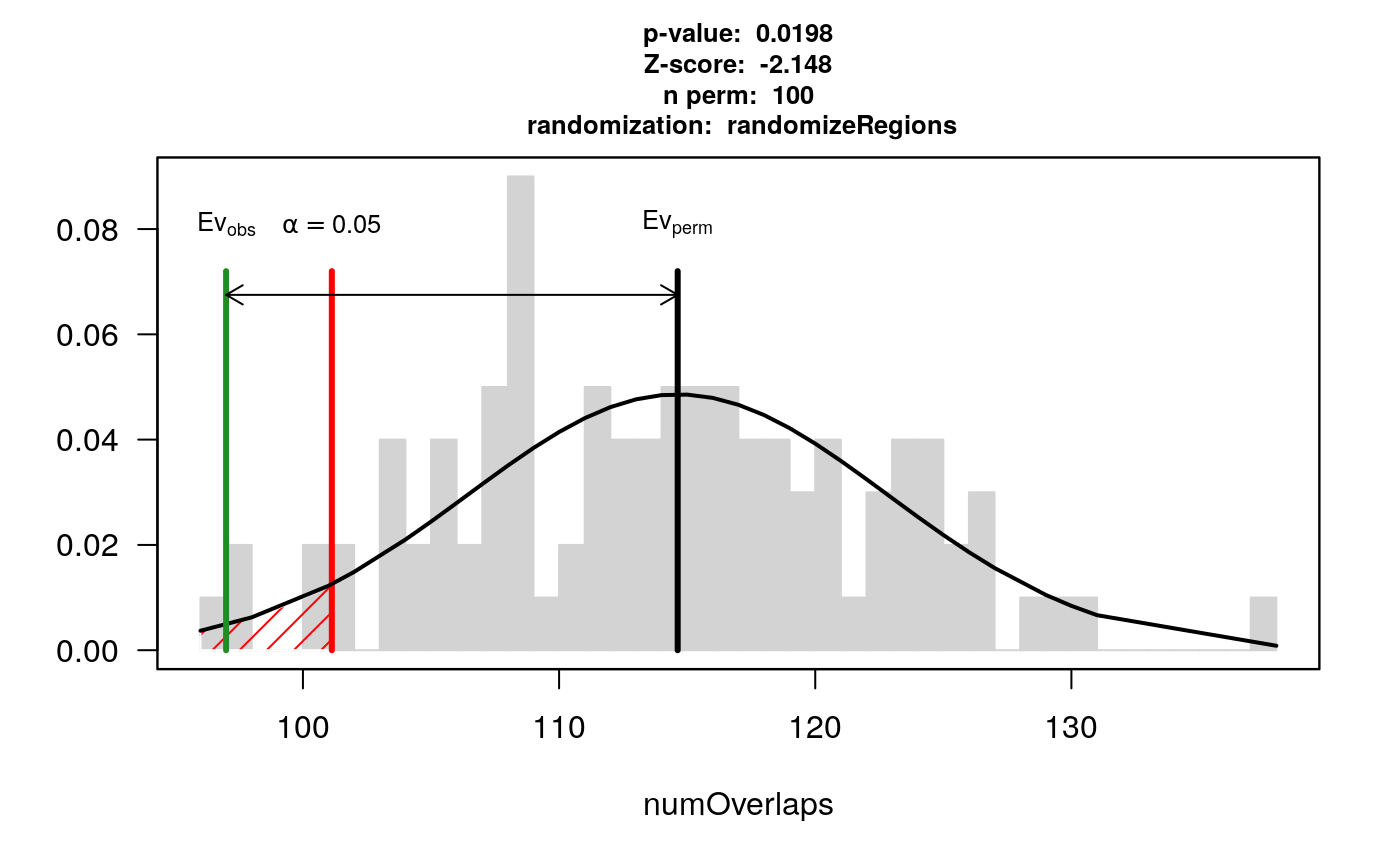
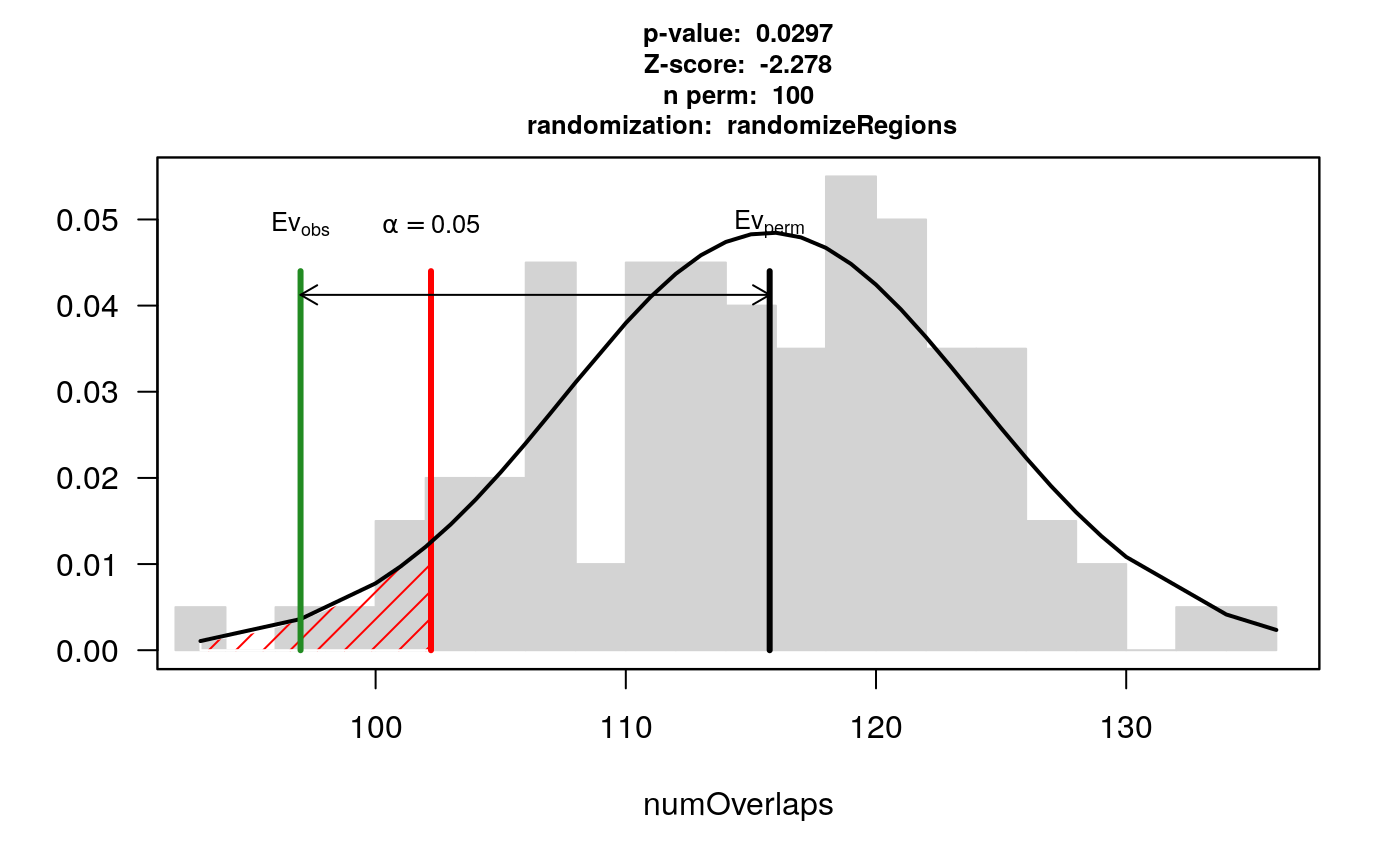
Deploying to gh-pages from  @ 88d11f97172ed49f22ce9ac9cc7c9f7c1b7ebd18 🚀

diff --git a/articles/Geistlinger_CNVWorkshop.html b/articles/Geistlinger_CNVWorkshop.html
@@ -546,17 +546,17 @@ RaggedExperiment object schematic. Rows and columns represent genomic ranges and
 <pre><code>## DataFrame with 711 rows and 2 columns
 ##             weight       fcr
 ##          &lt;numeric&gt; &lt;numeric&gt;
-## NE001357   1206.53      7.49
-## NE001358   1171.97      4.00
-## NE001359   1031.34      4.38
-## NE001360    986.34      5.84
-## NE001361    999.99      7.94
+## NE001357   1440.84      7.23
+## NE001358   1246.89      5.52
+## NE001359    972.60      6.68
+## NE001360   1278.32      7.70
+## NE001361   1150.43      5.14
 ## ...            ...       ...
-## NE003962   1098.47      3.95
-## NE003963   1285.13      6.97
-## NE003966   1045.78      6.63
-## NE003967   1232.71      7.77
-## NE003968   1007.17      4.65</code></pre>
+## NE003962   1158.21      3.85
+## NE003963   1250.36      7.84
+## NE003966   1190.27      7.06
+## NE003967    957.54      5.14
+## NE003968   1011.43      5.57</code></pre>
 </div>
 </div>
 <div id="summarizing-individual-cnv-calls-across-a-population" class="section level3">
@@ -643,12 +643,12 @@ RaggedExperiment object schematic. Rows and columns represent genomic ranges and
 <p>To obtain the location of protein-coding genes, we query available <em>Bos taurus</em> annotation from Ensembl</p>
 <div class="sourceCode" id="cb57"><html><body><pre class="r"><span class="fu"><a href="https://rdrr.io/r/base/library.html">library</a></span>(<span class="no">AnnotationHub</span>)
 <span class="no">ah</span> <span class="kw">&lt;-</span> <span class="kw pkg">AnnotationHub</span><span class="kw ns">::</span><span class="fu"><a href="https://rdrr.io/pkg/AnnotationHub/man/AnnotationHub-class.html">AnnotationHub</a></span>()</pre></body></html></div>
-<pre><code>## using temporary cache /tmp/RtmpkdfaVz/BiocFileCache</code></pre>
-<pre><code>## snapshotDate(): 2020-06-18</code></pre>
+<pre><code>## using temporary cache /tmp/Rtmpv6P0ra/BiocFileCache</code></pre>
+<pre><code>## snapshotDate(): 2020-07-20</code></pre>
 <div class="sourceCode" id="cb60"><html><body><pre class="r"><span class="no">ahDb</span> <span class="kw">&lt;-</span> <span class="kw pkg">AnnotationHub</span><span class="kw ns">::</span><span class="fu"><a href="https://rdrr.io/pkg/AnnotationHub/man/AnnotationHub-class.html">query</a></span>(<span class="no">ah</span>, <span class="kw">pattern</span> <span class="kw">=</span> <span class="fu"><a href="https://rdrr.io/r/base/c.html">c</a></span>(<span class="st">"Bos taurus"</span>, <span class="st">"EnsDb"</span>))
 <span class="no">ahDb</span></pre></body></html></div>
 <pre><code>## AnnotationHub with 14 records
-## # snapshotDate(): 2020-06-18
+## # snapshotDate(): 2020-07-20
 ## # $dataprovider: Ensembl
 ## # $species: Bos taurus
 ## # $rdataclass: EnsDb
@@ -781,8 +781,8 @@ RaggedExperiment object schematic. Rows and columns represent genomic ranges and
     <span class="kw">genome</span><span class="kw">=</span><span class="st">"bosTau6"</span>, <span class="kw">mask</span><span class="kw">=</span><span class="fl">NA</span>, <span class="kw">per.chromosome</span><span class="kw">=</span><span class="fl">TRUE</span>, <span class="kw">count.once</span><span class="kw">=</span><span class="fl">TRUE</span>))
 <span class="no">res</span></pre></body></html></div>
 <pre><code>## $numOverlaps
-## P-value: 0.0198019801980198
-## Z-score: -2.1477
+## P-value: 0.0297029702970297
+## Z-score: -2.2784
 ## Number of iterations: 100
 ## Alternative: less
 ## Evaluation of the original region set: 97
@@ -793,8 +793,8 @@ RaggedExperiment object schematic. Rows and columns represent genomic ranges and
 ## [1] "permTestResultsList"</code></pre>
 <div class="sourceCode" id="cb75"><html><body><pre class="r"><span class="fu"><a href="https://rdrr.io/r/base/summary.html">summary</a></span>(<span class="no">res</span><span class="kw">[[</span><span class="fl">1</span>]]$<span class="no">permuted</span>)</pre></body></html></div>
 <pre><code>##    Min. 1st Qu.  Median    Mean 3rd Qu.    Max. 
-##    96.0   109.0   115.0   114.6   120.2   138.0</code></pre>
-<p>The resulting permutation <em>p</em>-value indicates a significant depletion. Out of the 303 CNV regions, 97 overlap with at least one gene. In contrast, when repeatedly drawing random regions matching the CNV regions in size and chromosomal distribution, the mean number of overlapping regions across permutations was 114.6 <span class="math inline">\(\pm\)</span> 8.2.</p>
+##    93.0   110.8   116.0   115.8   122.0   136.0</code></pre>
+<p>The resulting permutation <em>p</em>-value indicates a significant depletion. Out of the 303 CNV regions, 97 overlap with at least one gene. In contrast, when repeatedly drawing random regions matching the CNV regions in size and chromosomal distribution, the mean number of overlapping regions across permutations was 115.8 <span class="math inline">\(\pm\)</span> 8.2.</p>
 <p>This finding is consistent with our observations across the whole genome (<a href="https://doi.org/10.1371/journal.pone.0157711">da Silva et al., 2016</a>) and findings from the 1000 Genomes Poject (<a href="https://www.nature.com/articles/nature15394">Sudmant et al., 2015</a>).</p>
 <div class="sourceCode" id="cb77"><html><body><pre class="r"><span class="fu"><a href="https://rdrr.io/r/base/plot.html">plot</a></span>(<span class="no">res</span>)</pre></body></html></div>
 <p><img src="Geistlinger_CNVWorkshop_files/figure-html/vizPermTest-1.png" width="100%"></p>
